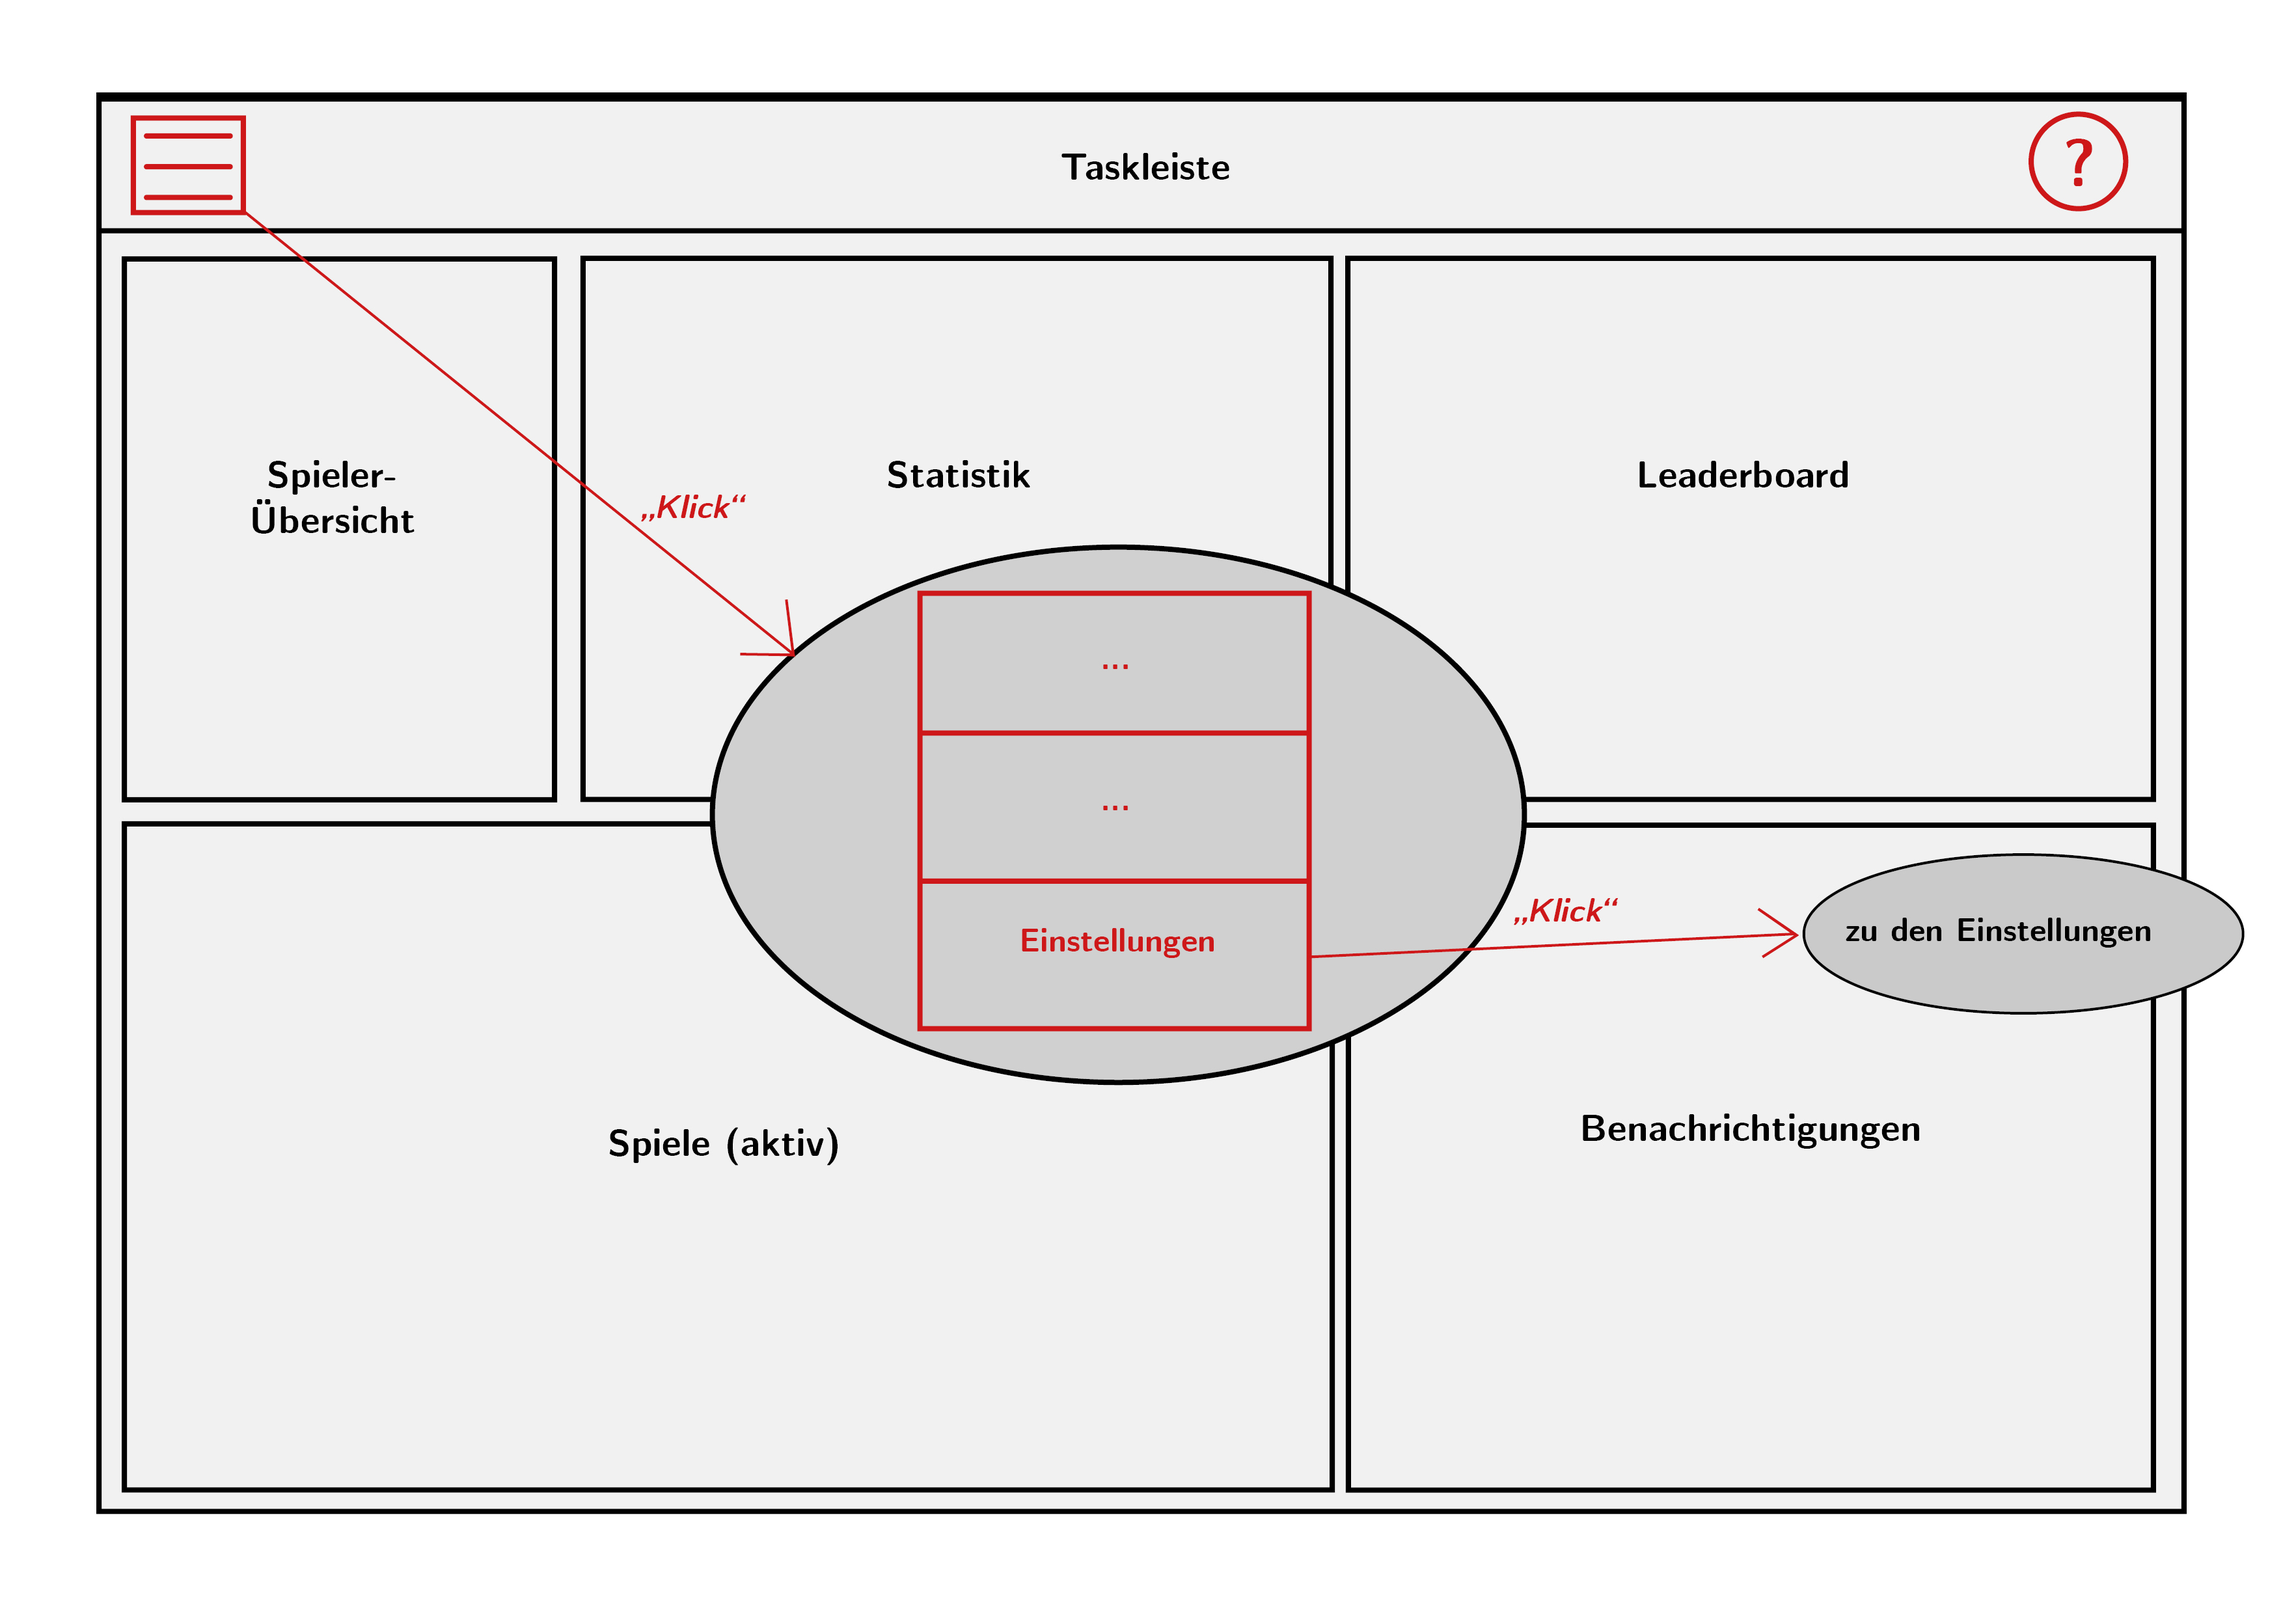
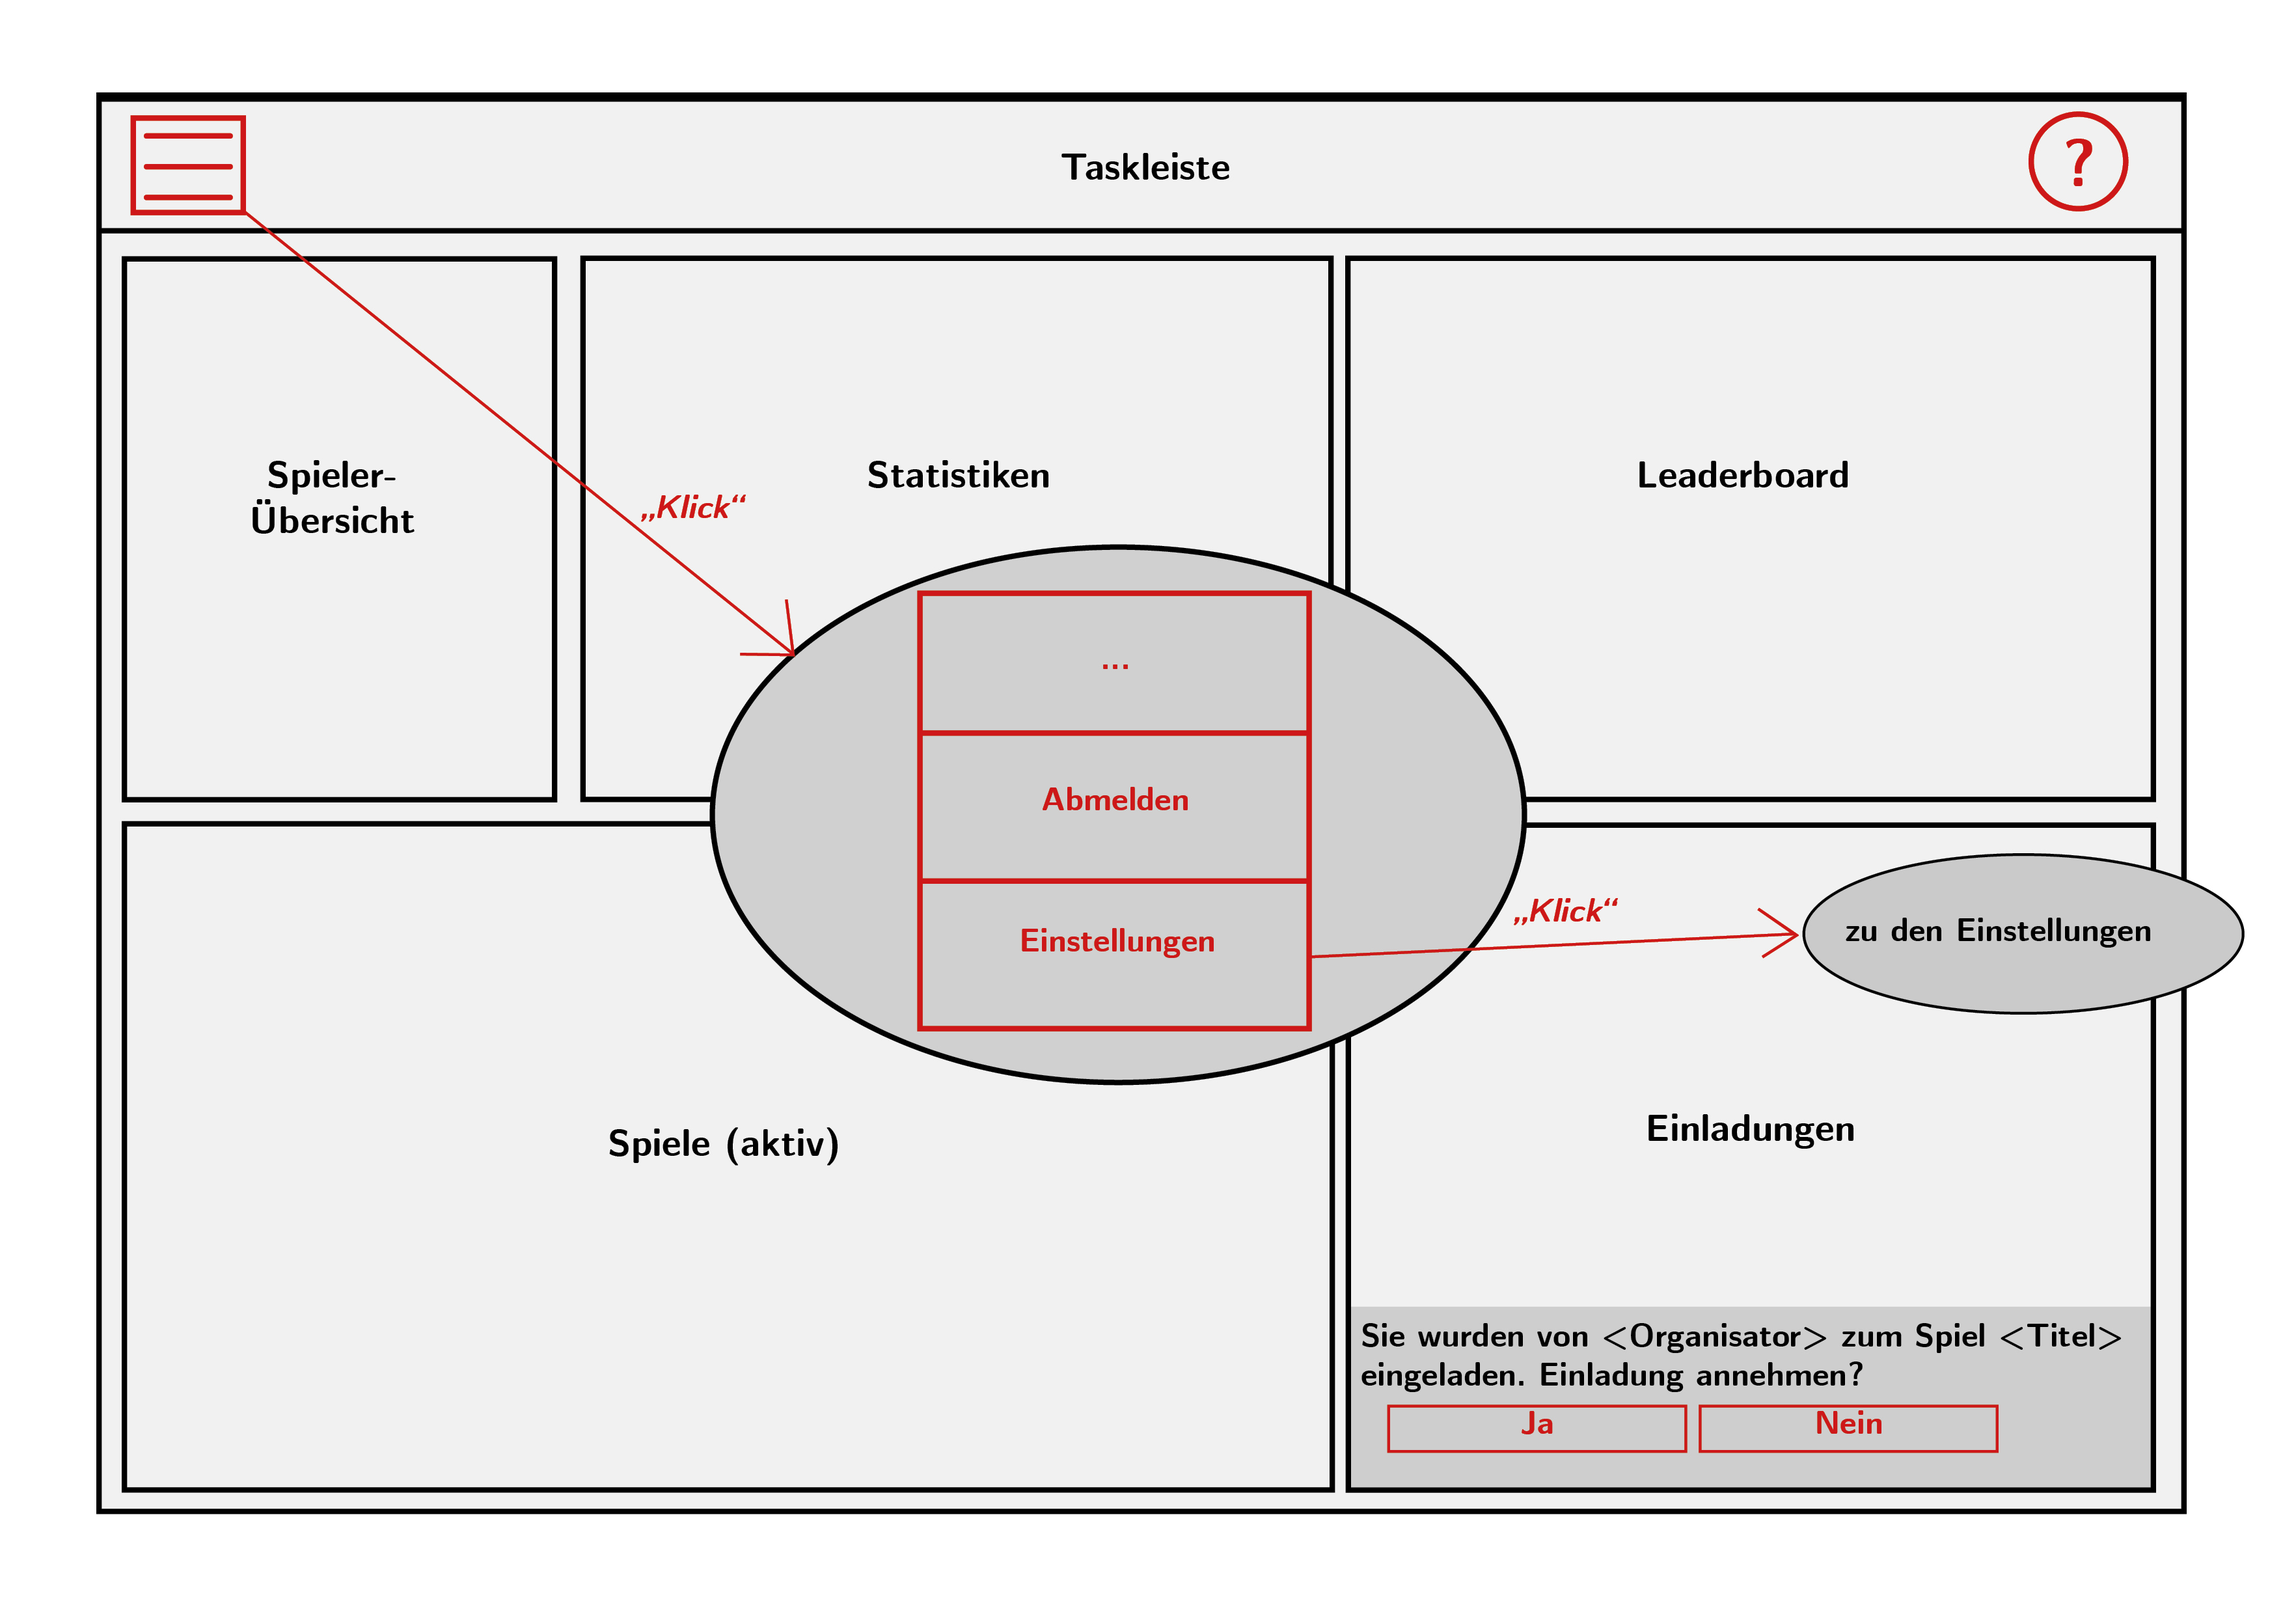
GUI fixed

diff --git a/pflichtenheft/pflichtenheft.tex b/pflichtenheft/pflichtenheft.tex
@@ -664,33 +664,41 @@ description={Ein Server, der uns bereitgestellt wird und mit REST-API. Der ML-Se
     \includegraphics[width=\textwidth]{uml/export/Achievment_State.png}
     
 
-    \section{Benutzerschnittstelle}
+    \chapter{Benutzerschnittstelle}
 
-    \subsection{Anmeldung}
+    \section{Anmeldung}
     \centering
-    \includegraphics[width=400px]{../pictures/1_Anmeldung.jpg}
-    \includegraphics[width=400px]{../pictures/1_Anmeldung(Responsiv).jpg}
-
-    \subsection{Organisator-Start (Desktop)}
+    \includegraphics[width=\textwidth]{../pictures/Anmeldung.jpg}
+    \subsection{Anmeldung (responsive)}
     \centering
-    \includegraphics[width=400px]{../pictures/2_Organisator.jpg}
+    \includegraphics[width=\textwidth]{../pictures/Anmeldung_responsive.jpg}
 
-    \subsection{Organisator-Start (Responsive)}
+    \section{Organisator-Start}
     \centering
-    \includegraphics[width=400px]{../pictures/3_Organisator(responsive).jpg}
+    \includegraphics[width=\textwidth]{../pictures/2_Organisator.jpg}
 
-    \subsection{Spielerstellung}
+    \subsection{Organisator-Start (responsive)}
     \centering
-    \includegraphics[width=400px]{../pictures/6_Spiel.jpg}
+    \includegraphics[width=\textwidth]{../pictures/3_Organisator(responsive).jpg}
+    In den weiteren Darstellungen werden keine responsiven Darstellungen gezeigt, die zwei bereits gezeigten Darstellungen dienen als anschauliches Beispiel für
+    responsive Darstellung einer Benutzerschnittstelle.
 
-    \subsection{Spieler-Übersicht}
+    \section{Spielerstellung}
+    \centering
+    \includegraphics[width=\textwidth]{../pictures/Spielerstellung.jpg}
+
+    \section{Spieler-Übersicht}
     \label{fig:Spieler-Übersicht}
     \centering
-    \includegraphics[width=400px]{../pictures/5_Spieler.jpg}
+    \includegraphics[width=\textwidth]{../pictures/5_Spieler.jpg}
 
-    \subsection{Spiel}
+    \section{Spiel}
+    \subsection{Matrix Select}
     \centering
-    \includegraphics[width=400px]{../pictures/4_Spielerstellung.jpg}
+    \includegraphics[width=\textwidth]{../pictures/MatrixSelect.jpg}
+    \subsection{Binär Select}
+    \centering
+    \includegraphics[width=\textwidth]{../pictures/BinSelect.jpg}
 
     \clearpage
 
